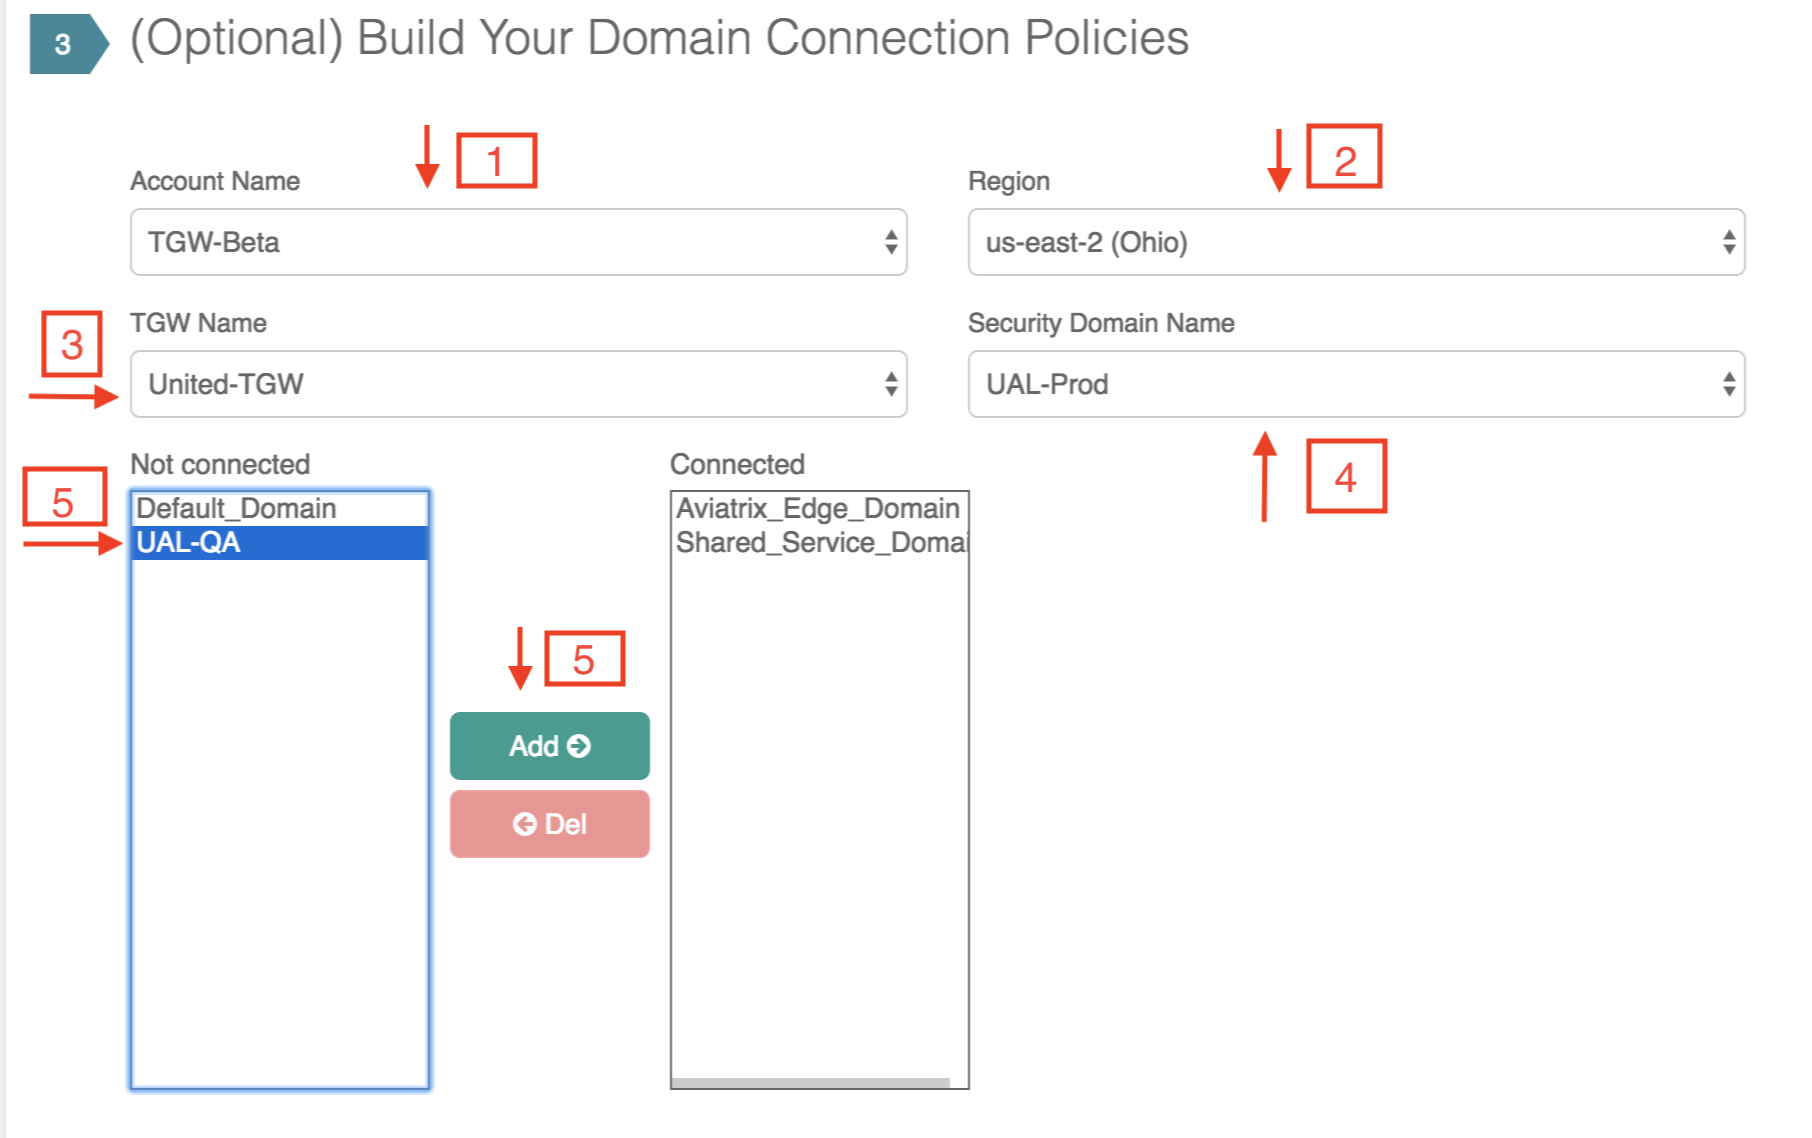
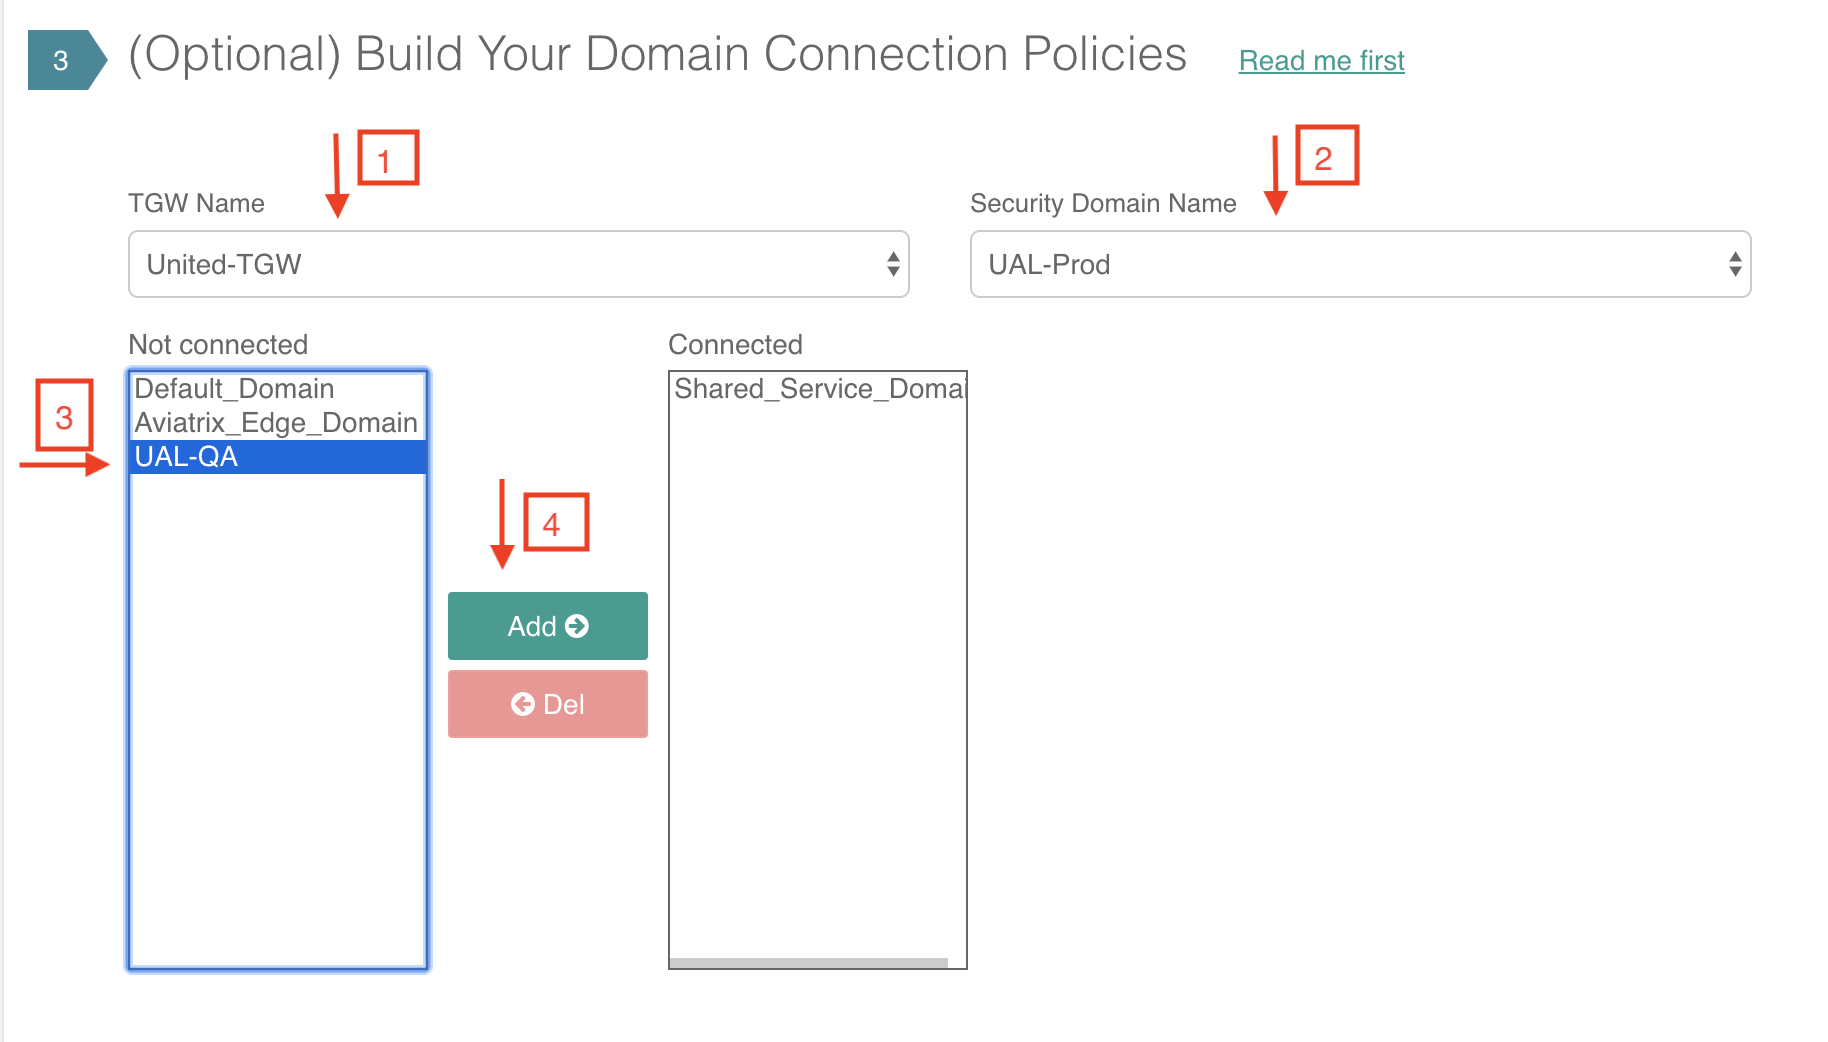
update tgw plan

diff --git a/HowTos/tgw_plan.rst b/HowTos/tgw_plan.rst
@@ -42,11 +42,11 @@ AWS Side AS Numbert                             Default AS number is 64512. This
 2. (Optional) Create a New Security Domain
 --------------------------------------------------
 
-This section include step 2 & 3 to plan a segmented network. 
+This section includes step 2 & 3 to plan a segmented network. 
 
 If you plan to build a `full mesh network <https://docs.aviatrix.com/HowTos/tgw_design_patterns.html#Full-mesh-network-design>`_, skip this section. 
 
-If you plan to build a segmented network, this step creates a new `Security Domain <https://docs.aviatrix.com/HowTos/tgw_faq.html#What-is-a-Security-Domain>`_ . 
+If you plan to build a segmented network, use this section to create a new `Security Domain <https://docs.aviatrix.com/HowTos/tgw_faq.html#What-is-a-Security-Domain>`_ and design connection policies. 
 
 (When planning for a segmented network, you need to create Security Domains where Spoke VPCs in a Security Domain can communicate with each other. Spoke VPCs in different Security Domains cannot communicate with each other unless you specify a policy to connect the two domains.) 
 
@@ -62,7 +62,8 @@ Security Domain Name                            Specify a unique domain name. Fo
 ----------------------------------------------------
 
 This step specifies the connection relationship of one domain to others. Two connected domains imply that VPCs in 
-each domain can communicate with each other despite the fact that they are in different domains.
+each domain can communicate with each other despite the fact that they are in different domains. Aviatrix Controller takes
+care of both VPC route table and TGW route table programming and updates. 
 
 Highlight a domain on the left panel and click Add, the domain will appears to the right, as shown below. 
 
@@ -83,7 +84,7 @@ return to this section and continue to the next step.
 
 .. Note::
 
- For Aviatrix Transit GW to support Hybrid connection, the transit VPC needs to have a spare /26 CIDR space, i.e., not assigned to any subnets. Aviatrix Transit GW will use this space to create floating subnets in the next step. 
+ For Aviatrix Transit GW to support Hybrid connection, the transit VPC needs to have a spare /26 CIDR space, i.e., not assigned to any subnets. Aviatrix Transit GW uses the spare space to create 4 subnets in the next step. 
 
 
 5. (Optional) Enable Aviatrix Transit GW for Hybrid Connection
